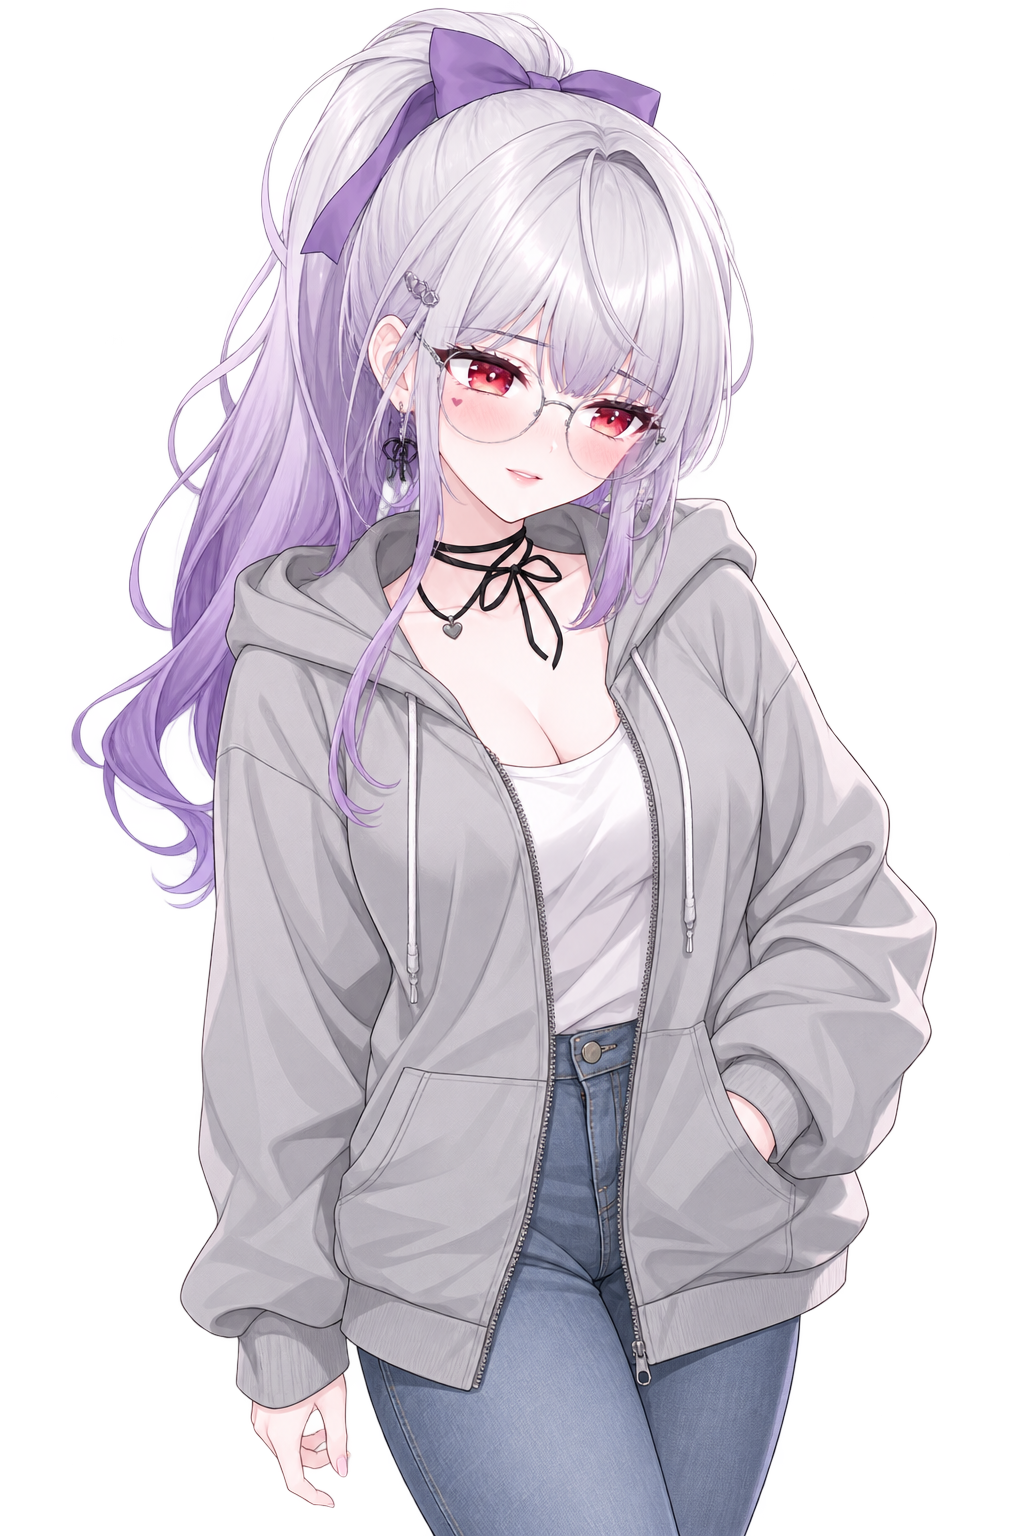
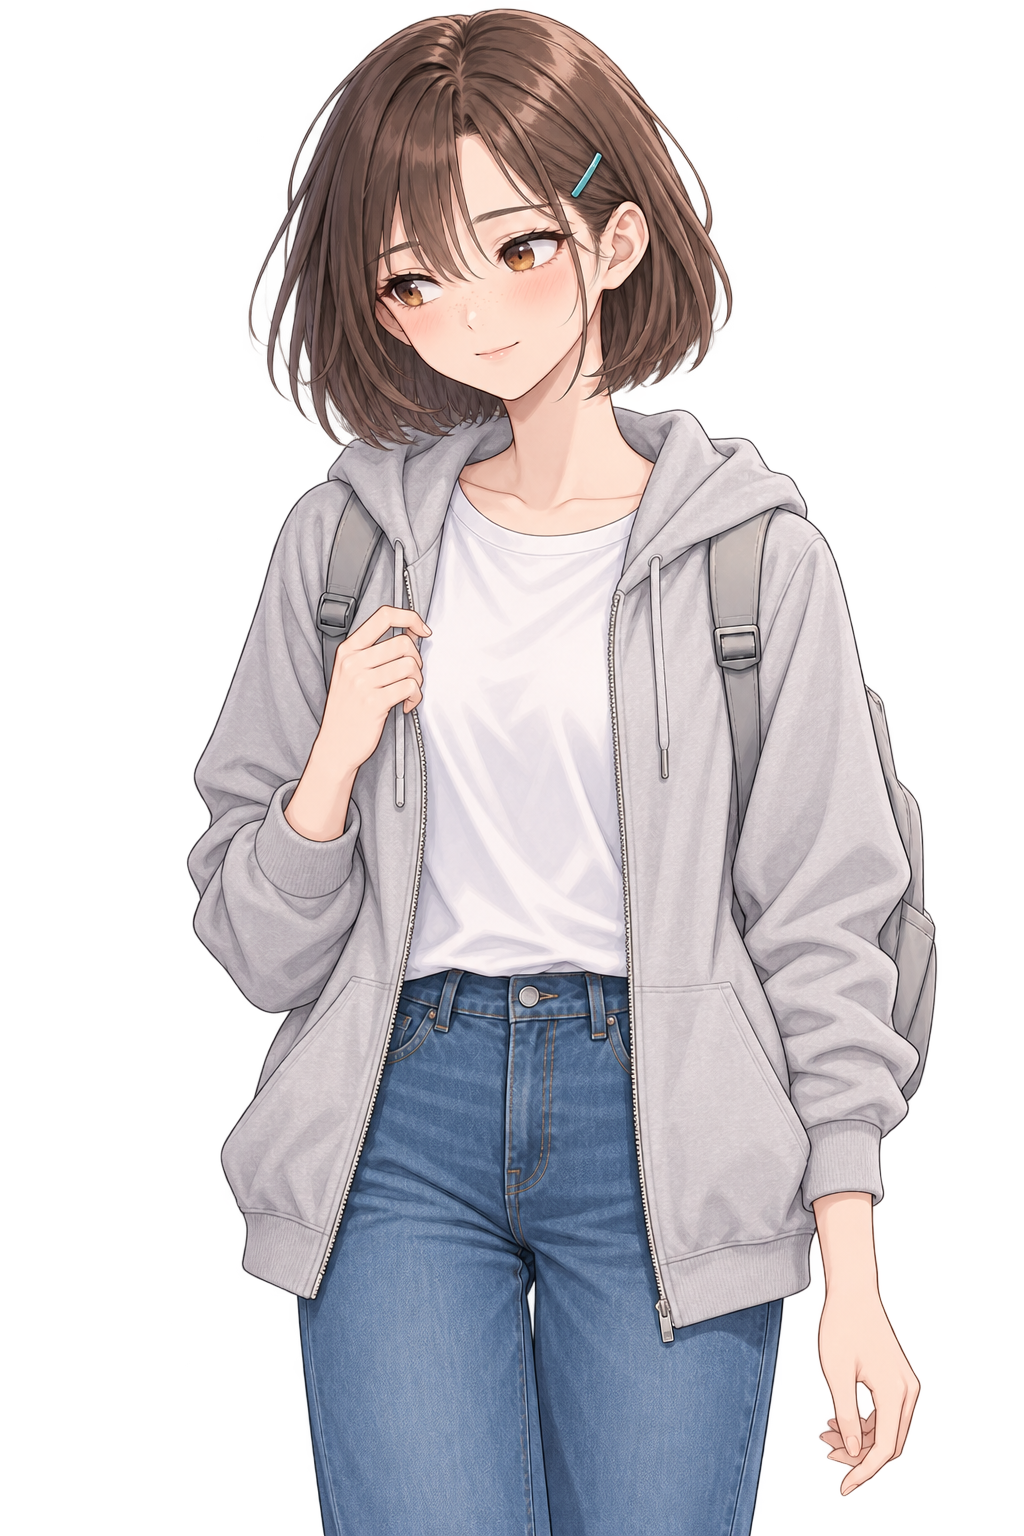
CH24 자유 의상 스탠딩 일러스트 교체

diff --git a/docs/illustration-replacement-prompts.md b/docs/illustration-replacement-prompts.md
@@ -179,16 +179,18 @@ CG는 공통 CG 블록과 파일별 장면 프롬프트를 이어 붙인다. 무
 
 ### CH24 자유 의상 C24 세트
 
-의상 블록: 넉넉한 밝은 회색 집업 후드, 안쪽의 흰 셔츠, 중간 청색 스트레이트 청바지, 작은 회색 가방. 안경과 로고는 넣지 않는다.
+공통 구도: 머리 위부터 무릎 바로 위까지 보이는 무릎 위 크롭.
+
+의상 블록: 편하게 여유 있는 밝은 회색 집업 후드, 안쪽의 흰 티셔츠, 중간 청색 스트레이트 청바지, 작은 연회색 백팩. 백팩 양쪽 끈은 후드 겉면의 어깨 위에 자연스럽게 놓고, 가슴을 대각선으로 가로지르는 끈은 넣지 않는다. 안경과 로고는 넣지 않는다.
 
 | 파일 | 개별 표정·포즈 프롬프트 |
 |---|---|
-| [C24-1.png](../assets/standing/C24-1.png) | 편안한 기본 표정, 한 손은 후드 주머니에 넣고 여유롭게 선다. |
-| [C24-2.png](../assets/standing/C24-2.png) | 오랜만의 자유시간이 반가운 웃음, 어깨를 편 채 정면을 본다. |
-| [C24-3.png](../assets/standing/C24-3.png) | 게임 이야기에 놀라 눈을 크게 뜨고 한 손을 가슴 가까이 든다. |
-| [C24-4.png](../assets/standing/C24-4.png) | 칭찬에 쑥스러워 시선을 피하고 후드 끈 끝을 만진다. |
-| [C24-5.png](../assets/standing/C24-5.png) | 상대가 즉흥적으로 끌고 가려 해 난감한 표정, 어깨가 살짝 처진다. |
-| [C24-6.png](../assets/standing/C24-6.png) | 새침하게 옆을 흘겨보며 한 손을 주머니에 둔다. |
+| [C24-1.png](../assets/standing/C24-1.png) | 편안한 기본 표정, 한 손은 후드 주머니에 넣고 다른 팔은 자연스럽게 내린다. |
+| [C24-2.png](../assets/standing/C24-2.png) | 오랜만의 자유시간이 반가운 환한 웃음, 어깨를 편 채 정면을 보고 양팔을 편하게 내린다. |
+| [C24-3.png](../assets/standing/C24-3.png) | 게임 이야기에 놀라 눈을 크게 뜨고 한 손을 가슴 가까이 올린다. |
+| [C24-4.png](../assets/standing/C24-4.png) | 칭찬에 쑥스러워 시선을 피하고 엄지와 검지로 후드 끈을 살짝 집는다. |
+| [C24-5.png](../assets/standing/C24-5.png) | 상대가 즉흥적으로 끌고 가려 해 난감한 표정, 어깨가 조금 처지고 양팔을 편하게 내린다. |
+| [C24-6.png](../assets/standing/C24-6.png) | 새침하게 옆을 흘겨보며 한 손은 후드 주머니에, 다른 팔은 편하게 내린다. |
 
 ### CH24 꾸민 의상 P24 세트
 
@@ -270,4 +272,4 @@ CG는 공통 CG 블록과 파일별 장면 프롬프트를 이어 붙인다. 무
 - 이미지 모델이 만든 문자·로고·워터마크는 제거하고, 필요한 문구는 별도로 편집한다.
 - 인물 외형 참조에는 승인된 공통 캐릭터 기준 이미지만 사용한다. 사용자가 특정 의상 참고 이미지를 제공한 경우에는 지정된 의상 형태만 참고하고 얼굴·머리·포즈·배경은 복사하지 않는다. 결과가 새 공통 캐릭터 기준과 다르면 해당 파일을 다시 생성한다.
 
-이 문서는 교체 대상의 프롬프트와 파일 대응표다. S·W·G·A·C1·P1·C13·P13·C16·P16 스탠딩 세트의 생성과 파일 교체를 완료했으며, 나머지 이미지는 작업별로 진행한다.
+이 문서는 교체 대상의 프롬프트와 파일 대응표다. S·W·G·A·C1·P1·C13·P13·C16·P16·C24 스탠딩 세트의 생성과 파일 교체를 완료했으며, 나머지 이미지는 작업별로 진행한다.
